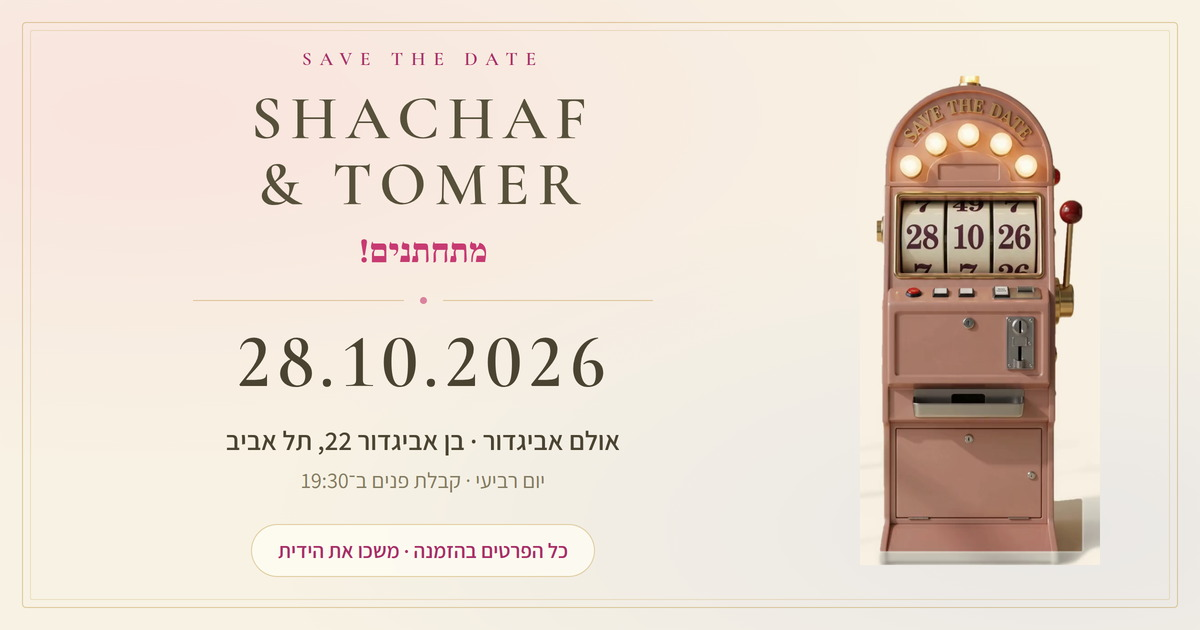
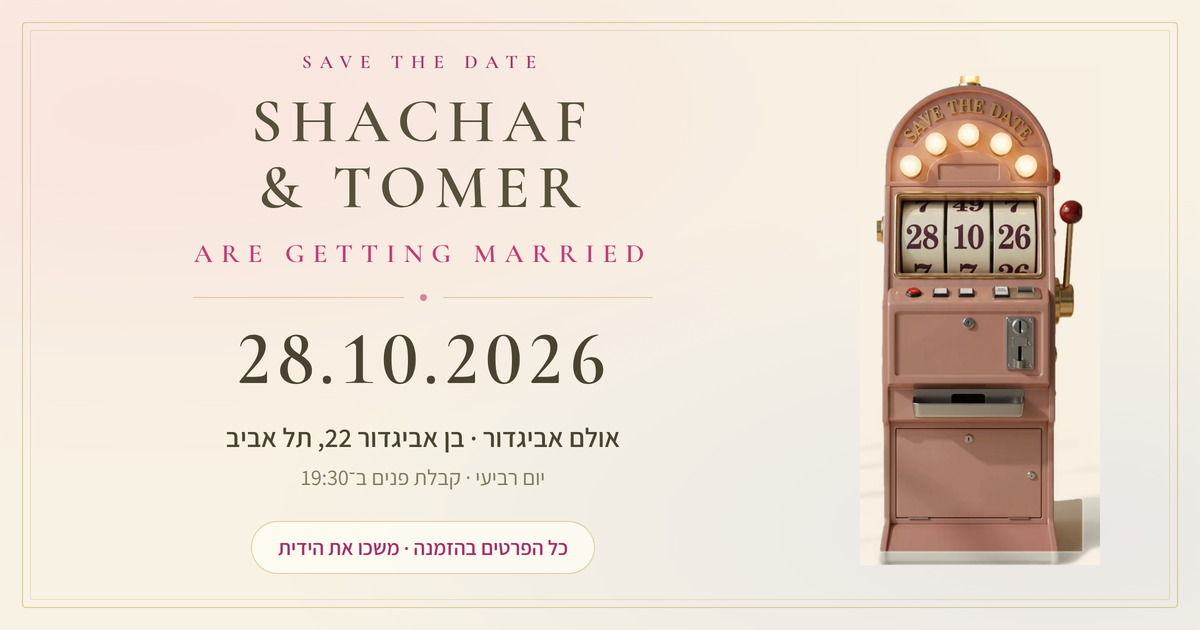
wedding: set the share card's tagline in English
"מתחתנים!" becomes "are getting married", set in the same serif as
the names and letterspaced like the SAVE THE DATE line above it, so
the three lines read as one block instead of a Hebrew line wedged
between two English ones.

New card, so the og:image content hash moves with it.

Claude-Session: https://claude.ai/code/session_012FzJUWiST9rhTZfSWZY9kp

diff --git a/wedding/index.html b/wedding/index.html
@@ -18,8 +18,8 @@
     <meta property="og:url" content="https://tomer-shachaf-wedding.vercel.app/" />
     <meta property="og:title" content="שחף &amp; תומר מתחתנים · 28.10.2026" />
     <meta property="og:description" content="אולם אביגדור, בן אביגדור 22 תל אביב · קבלת פנים ב־19:30. משכו את הידית של מכונת המזל וההזמנה נפתחת." />
-    <meta property="og:image" content="https://tomer-shachaf-wedding.vercel.app/media/share.jpg?v=47744e9afb" />
-    <meta property="og:image:secure_url" content="https://tomer-shachaf-wedding.vercel.app/media/share.jpg?v=47744e9afb" />
+    <meta property="og:image" content="https://tomer-shachaf-wedding.vercel.app/media/share.jpg?v=cd02490739" />
+    <meta property="og:image:secure_url" content="https://tomer-shachaf-wedding.vercel.app/media/share.jpg?v=cd02490739" />
     <meta property="og:image:type" content="image/jpeg" />
     <meta property="og:image:width" content="1200" />
     <meta property="og:image:height" content="630" />
@@ -27,7 +27,7 @@
     <meta name="twitter:card" content="summary_large_image" />
     <meta name="twitter:title" content="שחף &amp; תומר מתחתנים · 28.10.2026" />
     <meta name="twitter:description" content="אולם אביגדור, בן אביגדור 22 תל אביב · קבלת פנים ב־19:30. משכו את הידית של מכונת המזל וההזמנה נפתחת." />
-    <meta name="twitter:image" content="https://tomer-shachaf-wedding.vercel.app/media/share.jpg?v=47744e9afb" />
+    <meta name="twitter:image" content="https://tomer-shachaf-wedding.vercel.app/media/share.jpg?v=cd02490739" />
     <script type="module" crossorigin>(function(){const e=document.createElement("link").relList;if(e&&e.supports&&e.supports("modulepreload"))return;for(const i of document.querySelectorAll('link[rel="modulepreload"]'))n(i);new MutationObserver(i=>{for(const a of i)if(a.type==="childList")for(const l of a.addedNodes)l.tagName==="LINK"&&l.rel==="modulepreload"&&n(l)}).observe(document,{childList:!0,subtree:!0});function A(i){const a={};return i.integrity&&(a.integrity=i.integrity),i.referrerPolicy&&(a.referrerPolicy=i.referrerPolicy),i.crossOrigin==="use-credentials"?a.credentials="include":i.crossOrigin==="anonymous"?a.credentials="omit":a.credentials="same-origin",a}function n(i){if(i.ep)return;i.ep=!0;const a=A(i);fetch(i.href,a)}})();var Td={exports:{}},js={};/**
  * @license React
  * react-jsx-runtime.production.js

diff --git a/wedding/app/index.html b/wedding/app/index.html
@@ -18,8 +18,8 @@
     <meta property="og:url" content="https://tomer-shachaf-wedding.vercel.app/" />
     <meta property="og:title" content="שחף &amp; תומר מתחתנים · 28.10.2026" />
     <meta property="og:description" content="אולם אביגדור, בן אביגדור 22 תל אביב · קבלת פנים ב־19:30. משכו את הידית של מכונת המזל וההזמנה נפתחת." />
-    <meta property="og:image" content="https://tomer-shachaf-wedding.vercel.app/media/share.jpg?v=47744e9afb" />
-    <meta property="og:image:secure_url" content="https://tomer-shachaf-wedding.vercel.app/media/share.jpg?v=47744e9afb" />
+    <meta property="og:image" content="https://tomer-shachaf-wedding.vercel.app/media/share.jpg?v=cd02490739" />
+    <meta property="og:image:secure_url" content="https://tomer-shachaf-wedding.vercel.app/media/share.jpg?v=cd02490739" />
     <meta property="og:image:type" content="image/jpeg" />
     <meta property="og:image:width" content="1200" />
     <meta property="og:image:height" content="630" />
@@ -27,7 +27,7 @@
     <meta name="twitter:card" content="summary_large_image" />
     <meta name="twitter:title" content="שחף &amp; תומר מתחתנים · 28.10.2026" />
     <meta name="twitter:description" content="אולם אביגדור, בן אביגדור 22 תל אביב · קבלת פנים ב־19:30. משכו את הידית של מכונת המזל וההזמנה נפתחת." />
-    <meta name="twitter:image" content="https://tomer-shachaf-wedding.vercel.app/media/share.jpg?v=47744e9afb" />
+    <meta name="twitter:image" content="https://tomer-shachaf-wedding.vercel.app/media/share.jpg?v=cd02490739" />
   </head>
   <body>
     <div id="root"></div>

diff --git a/wedding/tools/build_share_card.py b/wedding/tools/build_share_card.py
@@ -88,8 +88,9 @@ CARD = """<!doctype html>
     color: var(--ivory); margin-top: 16px;
   }
   .marry {
-    font-family: var(--display); font-weight: 700; font-size: 34px;
-    color: var(--champ); margin-top: 12px;
+    font-family: var(--serif); direction: ltr; font-weight: 600;
+    font-size: 27px; letter-spacing: 0.3em; text-transform: uppercase;
+    color: var(--champ); margin-top: 16px;
   }
   .rule {
     display: flex; align-items: center; justify-content: center;
@@ -123,7 +124,7 @@ CARD = """<!doctype html>
     <div class="copy">
       <div class="eyebrow">SAVE THE DATE</div>
       <div class="names">SHACHAF<br>&amp; TOMER</div>
-      <div class="marry">מתחתנים!</div>
+      <div class="marry">are getting married</div>
       <div class="rule"><i></i><b></b><i></i></div>
       <div class="date">28.10.2026</div>
       <div class="where">אולם אביגדור · בן אביגדור 22, תל אביב</div>
